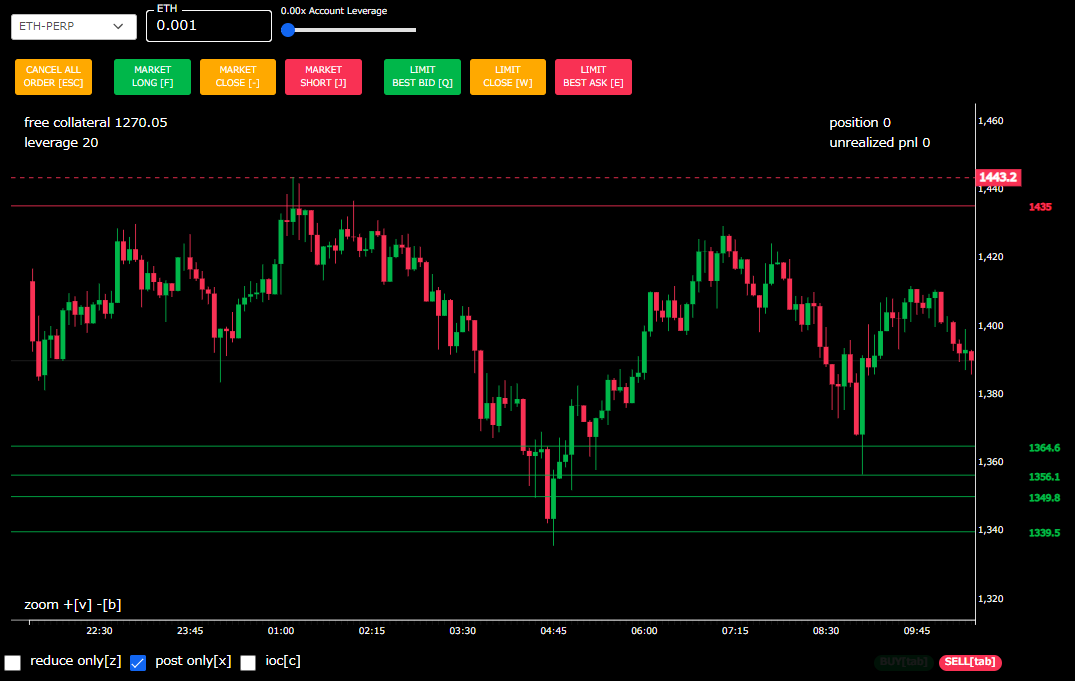
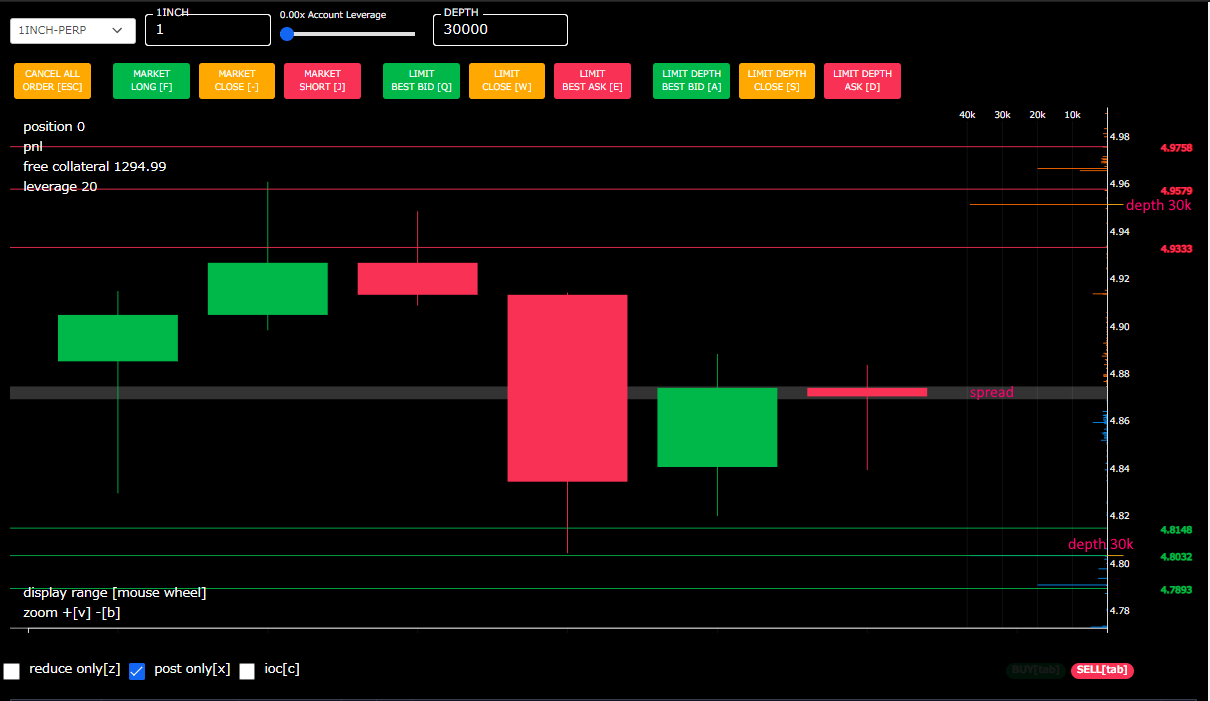
add depth

Changed region(s): [[0.0, 0.0, 1.0, 1.0], [0.0921, 0.6476, 0.1228, 0.7093], [0.706, 0.6476, 0.7367, 0.6784]]

diff --git a/src/public/orderbook.js b/src/public/orderbook.js
@@ -1,0 +1,114 @@
+class OrderBook{
+	constructor(chart){
+		this.chart = chart;
+		this.ds = [];
+		this.scale = d3.scaleLinear();
+		this.max = 0;
+		this.axis = chart.svg.append("g")
+			.attr('class', 'orderbook axis')
+			.attr("transform", `translate(0,20)`);
+	}
+	update(ds){
+		if(ds.action == "partial"){
+			this.max = 0;
+			for(let side of ["bids","asks"]){
+				this.ds[side] = {};
+				for(let d of ds[side]){
+					d.push(side == "bids");
+					this.ds[side][d[0]] = d;
+				}
+			}
+		}else if(ds.action == "update"){
+			for(let side of ["bids","asks"]){
+				for(let d of ds[side]){
+					if(d[1] == 0){
+						if(this.ds[side][d[0]]){
+							delete this.ds[side][d[0]];
+						}
+					}else{
+						d.push(side == "bids");
+						this.ds[side][d[0]] = d;
+					}
+				}
+			}
+		}
+		this.draw();
+	}
+	resize(width){
+		this.scale.range([width, width*0.85]);
+	}
+	getDepthPrice(){
+		let depth = $("#depth").val();
+		if(!depth){
+			return;
+		}
+		let prices = {
+		};
+		for(let side of ["bids","asks"]){
+			let ds = Object.values(this.ds[side]);
+			ds = ds.sort((a,b) => {
+				if(side == "bids"){
+					return b[0] - a[0]
+				}else{
+					return a[0] - b[0]
+				}
+			});
+			let total = 0;
+			let price;
+			for(let d of ds){
+				total += d[1];
+				if(total >= depth){
+					prices[side] = d[0];
+					break;
+				}
+			}
+		}
+		this.depth = prices;
+		return prices;
+	}
+	draw(){
+		let all = Object.values(this.ds.bids)
+			.concat(Object.values(this.ds.asks));
+		let yscale = this.chart.y.scale;
+		let ydomain = yscale.domain();
+		if(!this.max){
+			this.max = d3.max(all,d => d[1])*1.2;
+		}
+		let prices = this.getDepthPrice();
+		let minusPrice = -this.max * 0.1;
+		all.push([prices.bids,minusPrice,true,true])
+		all.push([prices.asks,minusPrice,false,true])
+		all = all.filter(d => ydomain[0] <= d[0] && d[0] <= ydomain[1])
+		let xscale = this.scale;
+		xscale.domain([0,this.max])
+		let g = this.chart.svg.selectAll("line.orderbook")
+			.data(all, d => d[0]);
+		g.exit()
+			.remove();
+		let g_enter = g.enter()
+			.append("line")
+		let merged = g_enter.merge(g);
+			merged
+			.attr('class', d => {
+				let cls = d[2] ? "bids orderbook" : "asks orderbook";
+				if(d[3]){
+					cls += " depth";
+				}
+				return cls;
+			})
+			.attr("y1", d => yscale(d[0]))
+			.attr("y2", d => yscale(d[0]))
+			.attr("x1", d => xscale(d[1]))
+			.attr("x2", d => xscale(0))
+		let axis = d3.axisTop(xscale)
+			.ticks(5)
+			.tickFormat(d => {
+				if(d == 0){
+					return "";
+				}
+				return d3.format("~s")(d);
+			})
+			.tickSize(-this.chart.ohlcarea.attr("height")+20);
+		this.axis.call(axis);
+	}
+}

diff --git a/src/public/bindings.js b/src/public/bindings.js
@@ -29,6 +29,26 @@ class Bindings{
 		let socket = this.socket;
 		let inputs = this.inputs;
 		let self = this;
+		$("#dlb,#dlc,#dls").on('click',function(){
+			let ds = {
+				type : $(this).data('type'),
+				buy : $(this).data('buy')
+			}
+			ds = self.appendInputs(ds);
+			if(typeof ds.buy === "undefined"){
+				let now = +$("span.lot").text();
+				if(now == 0){
+					return;
+				}
+				ds.buy = now < 0;
+			}
+			if(ds.buy){
+				ds.price = self.chart.orderbook.depth.bids;
+			}else{
+				ds.price = self.chart.orderbook.depth.asks;
+			}
+			socket.emit("order",ds);
+		});
 		$("#omb,#oms,#olb,#ols").on('click',function(){
 			let ds = {
 				type : $(this).data('type'),
@@ -119,6 +139,16 @@ class Bindings{
 			},
 			e : () => {
 				$("#ols").click();
+			},
+
+			a : () => {
+				$("#dlb").click();
+			},
+			s : () => {
+				$("#dlc").click();
+			},
+			d : () => {
+				$("#dls").click();
 			},
 
 			tab : () => {

diff --git a/src/public/chart.js b/src/public/chart.js
@@ -12,6 +12,7 @@ class Chart{
 			.attr("class","ohlcarea")
 
 		this.bar = new Bar(this);
+		this.orderbook = new OrderBook(this);
 		this.spread = this.svg
 			.append("line")
 			.attr("class","spread")
@@ -42,6 +43,9 @@ class Chart{
 			height,
 			this.margin.top
 		]);
+
+		this.orderbook.resize(width);
+
 		this.x.scale = this.x.scale.range([this.margin.left, width]);
 		this.x.resize();
 		this.y.resize();
@@ -65,12 +69,13 @@ class Chart{
 		let max = now - now % bar.resolution;
 		max = Math.max(bar.ds[bar.ds.length-1].t,max);
 		let min = max - bar.resolution * bar.drawCount;
-		max += bar.resolution * 3;
+		max += bar.resolution * Math.round(bar.drawCount * .2);
 
 		let ds = this.bar.ds.filter(d => d.t >= min);
 		this.x.update(min,max,this.bar.resolution);
 		this.y.update(ds)
 		this.bar.draw(ds);
 		this.order.draw();
+		// this.orderbook.draw();
 	}
 }

diff --git a/src/public/style.css b/src/public/style.css
@@ -34,15 +34,11 @@ body {
   .chart .log {
     position: absolute;
     left: 15px;
-    top: 80px; }
+    top: 120px; }
     .chart .log p {
       margin-bottom: -.3rem; }
       .chart .log p.error {
         color: #f93154; }
-  .chart .position {
-    position: absolute;
-    right: 150px;
-    top: 15px; }
   .chart .accountinfo {
     position: absolute;
     left: 15px;
@@ -104,6 +100,16 @@ svg {
     svg .cursor text {
       font-size: 12px;
       stroke: white !important; }
+  svg .orderbook.axis path.domain {
+    opacity: 0; }
+  svg line.orderbook {
+    stroke-width: 1; }
+    svg line.orderbook.bids {
+      stroke: #0094FF; }
+    svg line.orderbook.asks {
+      stroke: #FF6A00; }
+    svg line.orderbook.depth {
+      stroke: #ffb21a; }
   svg g, svg line {
     pointer-events: none; }
   svg g.tick line {

diff --git a/src/public/common.js b/src/public/common.js
@@ -34,6 +34,10 @@ $(async () => {
 	let inputs = new Inputs();
 	let ws = new Ftxws();
 	let chart = new Chart();
+	let orderbook = {};
+	ws.onorderbook = ds => {
+		chart.orderbook.update(ds);
+	}
 	ws.ontrades = ds => {
 		chart.bar.update(ds)
 	}
@@ -127,10 +131,14 @@ $(async () => {
 	});
 	socket.on("position",ds => {
 		let p = ds.filter(p => p.future == M.id)[0];
-		let size = p.size;
-		let pnl = p.recentPnl;
-		if(p.side != "buy"){
-			size = -size;
+		let size = 0;
+		let pnl = "";
+		if(p){
+			size = p.size;
+			pnl = p.recentPnl;
+			if(p.side != "buy"){
+				size = -size;
+			}
 		}
 		$("span.lot").text(size);
 		$("span.pnl").text(pnl);
@@ -148,4 +156,4 @@ $(async () => {
 	document.querySelectorAll('.form-outline').forEach((formOutline) => {
 	  new mdb.Input(formOutline).init();
 	});
-});
+})

diff --git a/src/public/style.scss b/src/public/style.scss
@@ -36,18 +36,13 @@ body{
   .log{
     position: absolute;
     left: 15px;
-    top: 80px;
+    top: 120px;
     p{
       margin-bottom: -.3rem;
       &.error{
         color:#f93154;
       }
     }
-  }
-  .position{
-    position: absolute;
-    right: 150px;
-    top: 15px;
   }
   .accountinfo{
     position: absolute;
@@ -127,6 +122,21 @@ svg{
     text{
       font-size: 12px;
       stroke:white !important;
+    }
+  }
+  .orderbook.axis path.domain{
+    opacity:0;
+  }
+  line.orderbook{
+    stroke-width : 1;
+    &.bids{
+      stroke : #0094FF;
+    }
+    &.asks{
+      stroke : #FF6A00;
+    }
+    &.depth{
+      stroke : #ffb21a;
     }
   }
   g,line{

diff --git a/src/public/ws.js b/src/public/ws.js
@@ -3,7 +3,7 @@ class Ftxws{
   }
 	createEmit(){
 		let ds = [
-      // 'orderbook',
+      'orderbook',
       'trades',
       'ticker'
     ].map(d => {
@@ -96,7 +96,7 @@ class Ftxws{
         this.ontick(ds);
 				return;
 			case "orderbook" :
-				return;
+        return this.onorderbook(ds);
 			case "trades" :
         ds = ds.map(d => {
         	let size = (d.side == "buy") ? d.size : -d.size;

diff --git a/src/public/yaxis.js b/src/public/yaxis.js
@@ -1,8 +1,7 @@
 class YAxis{
 	constructor(chart){
 		this.chart = chart;
-		this.scale = d3.scaleLinear()
-			.range([this.chart.jqsvg.height() - this.chart.margin.bottom, this.chart.margin.top]);
+		this.scale = d3.scaleLinear();
 		let $axis = $('.axis');
 		this.axis = chart.svg.append("g")
 			.attr('class', 'axis')
